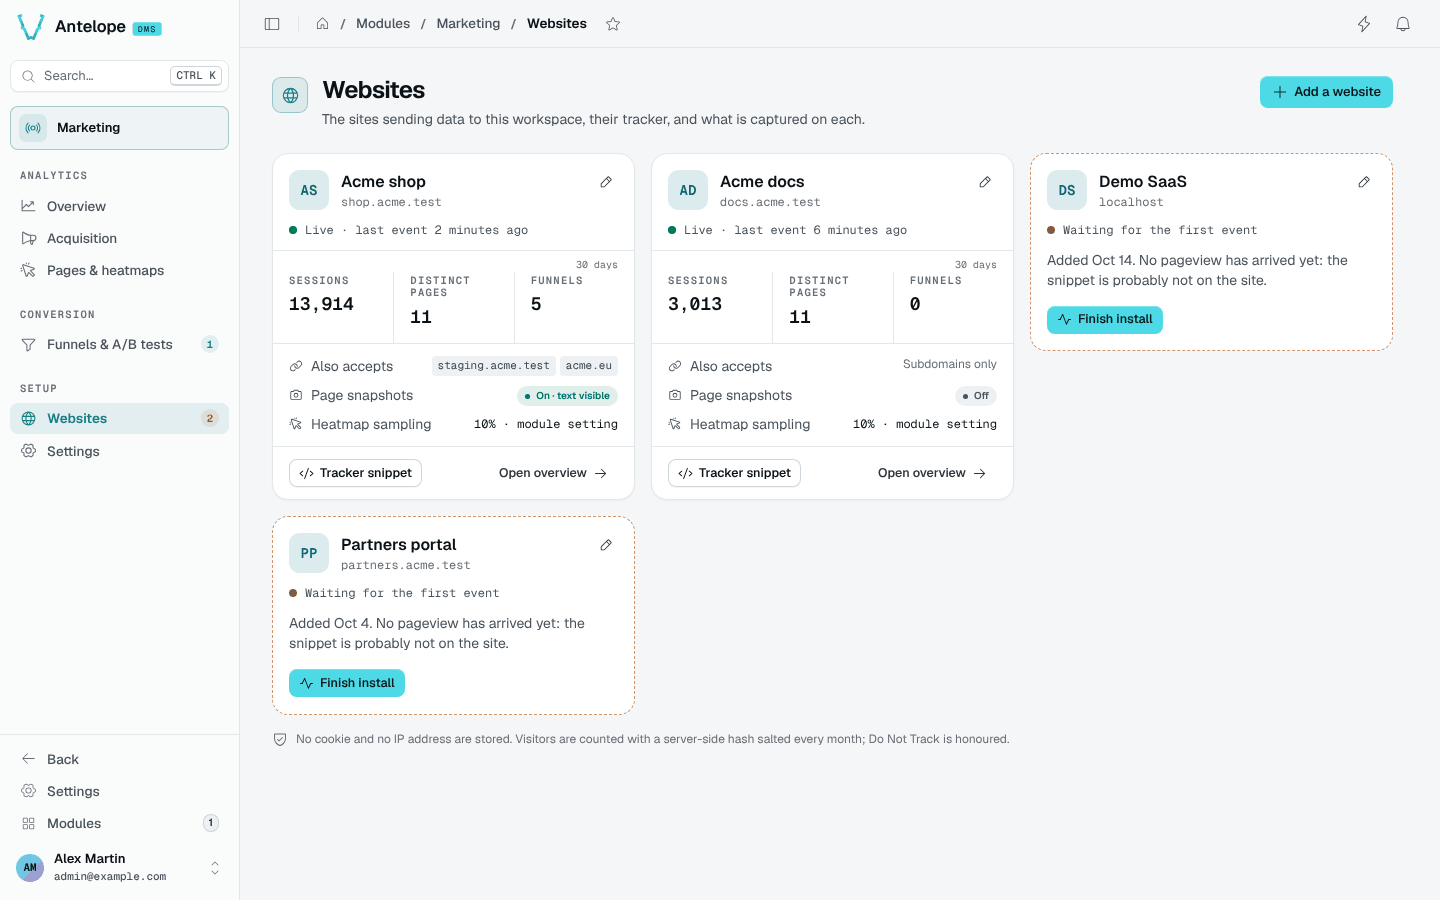
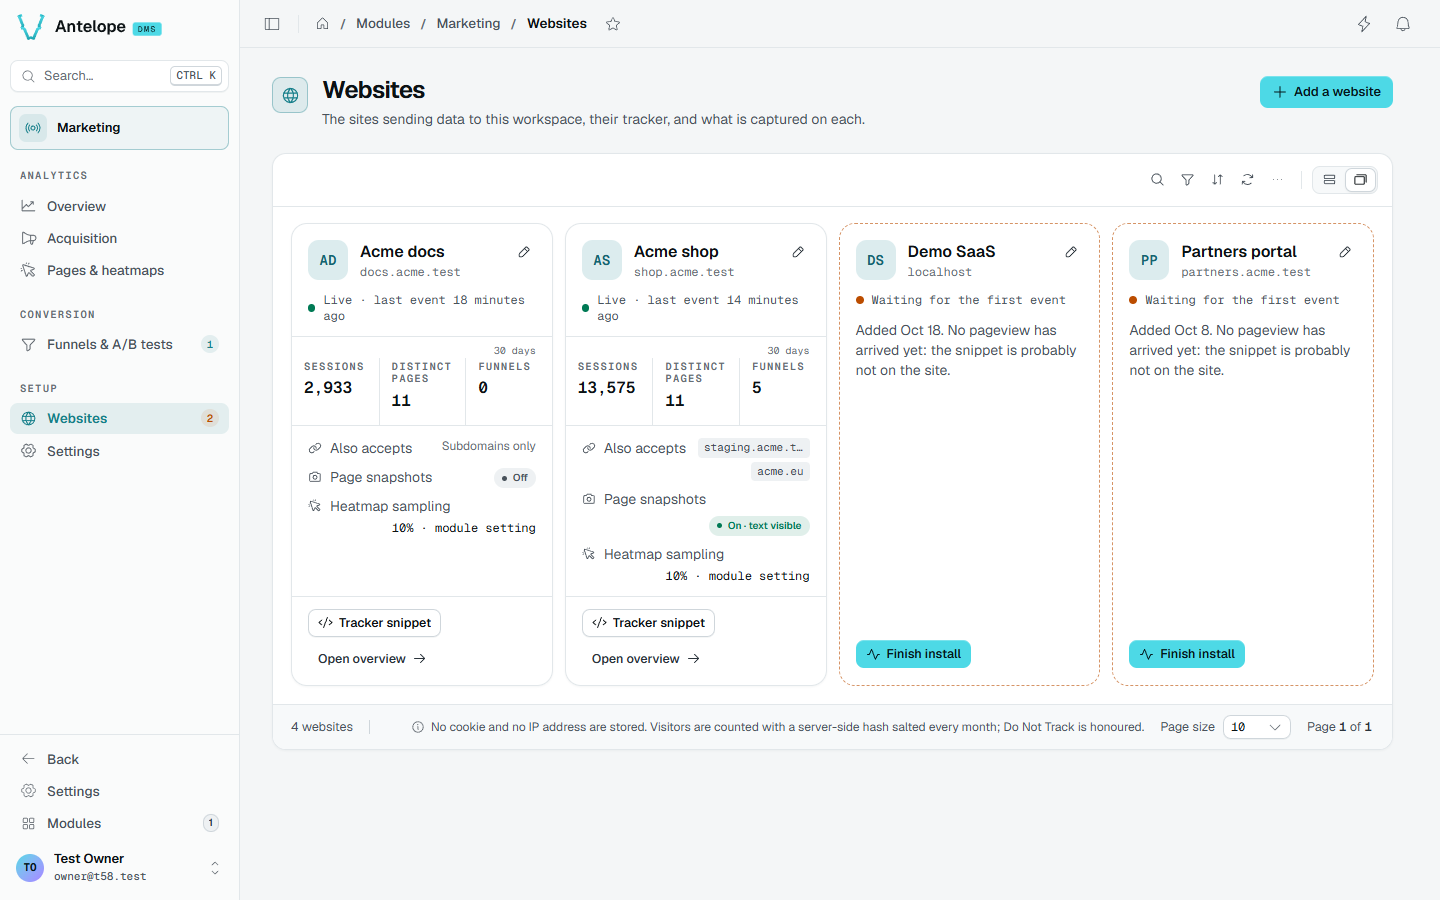
docs(websites): describe the table view and its modals

diff --git a/packages/dms-marketing/docs/7.architecture.md b/packages/dms-marketing/docs/7.architecture.md
@@ -293,7 +293,6 @@ Kind-specific `data` payloads:
 | `GET /api/marketing/snapshot.js?website=&path=&width=` | public | snapshot negotiation: the capture script when the backend wants a snapshot of that path at that viewport width, an empty script otherwise (see *Snapshot contract*) |
 | `POST /api/marketing/snapshot` | public | snapshot upload — one serialized page rendering, capped and rate-limited, accepted only with the token its negotiation handed out |
 | `GET/POST/PUT/DELETE /api/marketing/websites` | tenant member / owner | website CRUD; the list comes back most-recently-active first, so a dashboard landing on the first entry lands on one with data. `snapshotsEnabled` / `snapshotMaskText` are the page-snapshot opt-in and masking options; changing either discards the site's snapshots, and changing `snapshotsEnabled` marks it `snapshotsSetBy: "owner"`, which configuration never overrides. `DELETE /:id` purges the site's tracking data with it (see *Website lifecycle contract*) |
-| `GET /api/marketing/websites/summary` | tenant member | the Websites page cards: state, sessions / pages / funnels over 30 days, accepted hosts, snapshot and sampling state, recently refused hosts |
 | `GET /api/marketing/websites/:id/connection` | tenant member | the install guide's check: the site's state, its most recent visit (URL, browser, device) and its recently refused hosts |
 | `POST /api/marketing/websites/:id/allow-host` | tenant owner | adds a refused host to the site's `extraDomains` and forgets its refusals |
 | `POST /api/marketing/dashboard-tracking` | tenant member | with `dashboardTracking` on, the website the dashboard's own tag reports to, `{ websiteId }`: created for the caller's tenant on first call (id derived from the tenant, snapshots per `dashboardTracking.snapshots` until an owner changes them — `snapshotsSetBy` records whether `config` or the `owner` set them), the request's Origin (else Referer) host added to its `extraDomains` when it is new. 404 while the option is off; 400 without a usable host |
@@ -321,7 +320,7 @@ Kind-specific `data` payloads:
 | `POST /api/marketing/funnels/preview` | tenant member | scores unsaved steps and window over the last 30 days, for the builder |
 | `GET /api/marketing/funnels/:id/results` | tenant member | read-time funnel computation (each step with the events it `matches`, 0 for a step never sent), plus `previous`, the same computation over the comparison window (plain funnels and drafts, and only when raw events cover it — `coverage` says what they cover) — and, when the funnel carries an A/B split, the per-arm read through the same steps over the split's runs: exposed sessions, conversion, z-test verdicts with the lift interval (Bonferroni past two arms), SRM check, `decision` (days served, ready), and `verdict` — the one reading the report, its stop dialog and the list share: `kind` (winner, loser, flat, early, withheld) and the `leader` arm it names |
 | `/api/marketing/tables/funnels/*` | platform owner | funnels DataController (TableView CRUD, tenant-instance-scoped via `@TenantScopedModel`; enforces the split's `draft → running ⇄ stopped` lifecycle, stamps the runs it produces, and freezes key/variations outside draft) |
-| `/api/marketing/tables/websites/*` | platform owner | read-only websites DataController (relation picker; global table, column-scoped) |
+| `/api/marketing/tables/websites/*` | platform owner | read-only websites DataController (the Websites page's table and the relation pickers; global table, column-scoped). Its `list` and `get` answer each row with its card: state, sessions / pages / funnels over 30 days, accepted hosts, snapshot and sampling state, recently refused hosts. The `/api/marketing/websites` writes publish on `marketing.websites`, the table's `realtimeTopic` |
 | `GET/PUT /api/marketing/settings` | platform owner | settings form endpoints; `PUT` merges a partial body (a key left out keeps its value, `null` or the default itself clears it back to the config default), refuses (400, issue under the field) a snapshot retention longer than the raw-event retention or a statistics retention shorter than it, and answers 409 to the first save of a retention cut that deletes data (saving it again confirms) |
 | `GET/POST /api/marketing/settings/collection` | platform owner | the master switch, the websites and their 30-day sessions; `POST {enabled}` flips it |
 | `GET /api/marketing/settings/collection/banner` | platform owner | the Collection section for a stock `Banner`: state, coverage and the pause (confirmed) or resume action |
@@ -806,7 +805,11 @@ rest are module blocks, `CustomComponent("DmsMarketing<Name>")` built with
 first-run gate), `TopListTabs`,
 `ChannelsCard`, `PagesExplorer` (inventory and heatmap
 preview), `FunnelTemplates` (the funnels table's first-run state), `FunnelReport` (with `FunnelFigure` and
-`ExperimentReport`), `FunnelBuilder`, `WebsitesGrid` and `InstallGuide`.
+`ExperimentReport`), `FunnelBuilder` and `InstallGuide`. The Websites page is a stock `TableView`
+over the websites data controller whose `card.component` is
+`DmsMarketingWebsiteCard`; its default row action opens
+`DmsMarketingWebsiteSettings` in a modal (`?record=<id>`), and its header
+button `DmsMarketingWebsiteCreate`.
 The Collection section is a stock `Banner` the route words
 (`/settings/collection/banner`), with the pause behind a confirmation and
 the resume as its actions. The Settings forms share their field definitions with

diff --git a/packages/dms-marketing/docs/4.usage/5.websites.md b/packages/dms-marketing/docs/4.usage/5.websites.md
@@ -8,35 +8,44 @@ description: Register the sites to track, follow their state, and install the tr
 **Where:** `/modules/marketing/websites` and the install guide `/modules/marketing/install`, under **Setup**.
 
 Every tracked site is a *website* row, and its id is what the tracker embeds.
-Add it from the console: **Add a website** on the Websites page — or on the
-first-run screen every analytics page shows while the workspace has no
-website — opens the install guide (`/modules/marketing/install`). Its three
-steps create the website from a name and an apex domain, show the tag to
-embed with the id filled in, and check the connection (see
-[Verify](/docs/modules/marketing/installation#verify)).
+Add it from the console: **Add a website** in the Websites page header opens
+a modal asking for a name and an apex domain; once the site is created, the
+install guide (`/modules/marketing/install`) opens on it, at the tag to
+embed. The first-run screen every analytics page shows while the workspace
+has no website leads to the guide directly: its three steps create the
+website, show the tag to embed with the id filled in, and check the
+connection (see [Verify](/docs/modules/marketing/installation#verify)).
 
 ![Install guide: step 1 done, step 2 with the tracker snippet in HTML, Nuxt and Google Tag Manager tabs, step 3 listening for the first pageview](../images/install.png)
 
 The Websites page (`/modules/marketing/websites`) lists the sites
-afterwards, one card each: its state (live, imported history only, waiting for its first pageview,
+afterwards in a DMS table view, one card each: its state (live, imported history only, waiting for its first pageview,
 paused), its sessions, distinct pages and funnels over the last 30 days, the
-hosts it accepts, and its snapshot and sampling state (the snapshot pill
-opens the site's settings on that switch; `?edit=<id>&setting=snapshots`
-links there too). Any card names the
+hosts it accepts, and its snapshot and sampling state. The table's toolbar
+searches the sites by name or domain, filters them on **Tracking** and
+**Page snapshots**, sorts them, counts them and reads them again (refresh,
+and live when a site is added, changed or deleted elsewhere); its display
+switcher also offers a plain grid. Any card names the
 hosts refused for it, each with **Allow this host**; a paused site offers
 **Resume tracking**; a banner says when collection is paused for the whole
 module (Settings). A site still waiting leads back to its install guide; the
-sidebar badge on Websites counts those sites (paused ones excluded). A
-site's drawer holds two tabs: **General** (name, domain, extra hosts,
+sidebar badge on Websites counts those sites (paused ones excluded).
+
+A click on a card, or its pencil, opens the site's settings in a modal (the
+snapshot pill opens it scrolled to that switch). The URL names the open
+site, `?record=<id>`, so the modal can be linked to and reopens on reload;
+`&setting=snapshots` scrolls it to the snapshot switch (the Pages &
+heatmaps preview links there). An older `?edit=<id>` link lands on the same
+modal. The modal holds two tabs: **General** (name, domain, extra hosts,
 **Collect data** — off pauses the site: its beacons are refused, what was
 collected stays — and right below it **Page snapshots** and **Mask all
-text**, a change to which discards the site's snapshots, the drawer saying
+text**, a change to which discards the site's snapshots, the modal saying
 how many and Save asking for confirmation — even with none stored yet,
 except when only turning snapshots on; declining puts the switches back) and **Danger zone** (delete the website: it lists what goes, over every stored day —
 sessions, pageviews, funnels with their A/B tests, snapshots — and asks for
-the domain).
+the domain). Closing it with changes not saved asks first.
 
-![The settings drawer of a website, on its General tab](../images/website-drawer.png)
+![The settings modal of a website, on its General tab](../images/website-settings.png)
 
 ![Websites: one card per site with its live or waiting state, sessions, pages and funnels over 30 days, accepted hosts, snapshot and sampling state](../images/websites.png)
 
@@ -69,7 +78,7 @@ same keys plus `trackingEnabled` (false pauses the site).
   masked rendering of each tracked page as the heatmap's backdrop. This
   stores page content, unlike anything else in the module — read
   [Pages & heatmaps](/docs/modules/marketing/usage/pages-and-heatmaps#page-snapshots) before enabling it.
-  Also switchable from the **General** tab of the website's drawer (under
+  Also switchable from the **General** tab of the website's settings (under
   **Collect data**) and, as a shortcut, from the preview's **More** menu on
   Pages & heatmaps. `snapshotMaskText` masks
   every text node of the captures on top of the always-masked form values.

diff --git a/packages/dms-marketing/skills/dms-marketing/SKILL.md b/packages/dms-marketing/skills/dms-marketing/SKILL.md
@@ -25,6 +25,10 @@ https://dms.antelopejs.com/docs/modules/marketing (`architecture` holds the full
 - Behind a proxy set the DMS `auth.trustedProxies`; the old `trustedProxyHops` option is gone.
 - One website row per tracked site (Websites page or `POST /api/marketing/websites {name, domain, extraDomains?}`).
   Its `domain` gates ingestion: the beacon's Origin must be that apex, a subdomain or an extra host.
+- The Websites page is a DMS TableView (cards display, plain grid on offer) over
+  `/api/marketing/tables/websites`, whose list answers each row with its card; "Add a website" and a site's
+  settings open in modals. Link a site's settings with `/modules/marketing/websites?record=<id>`
+  (`&setting=snapshots` scrolls to the snapshot switch); the old `?edit=<id>` still redirects there.
 
 ## Visitor site
 
@@ -40,7 +44,7 @@ const arm = await window.dmsMarketing?.variation("hero-cta");      // null = ren
 - The dashboard origin forwards the scripts and beacons because the module declares them `publicEndpoints`
   (renderer 0.6 refuses other cross-origin writes); the backend origin works too.
 - Never `type="module"` (breaks `document.currentScript`). Always guard with `?.`.
-- Snapshots (heatmap backdrops) are opt-in per site (Websites page, General tab, next to Collect data); mask with
+- Snapshots (heatmap backdrops) are opt-in per site (Websites page, a site's settings modal, General tab, next to Collect data); mask with
   `data-dms-marketing-mask` / `data-dms-marketing-block`. Captures drop transient overlays on their own (top
   layer, fixed/floating role=dialog/menu/listbox/tooltip, fixed toasts and toast viewports); block anything else
   per element. Captures inline only the CSS rules matching the page

diff --git a/packages/dms-marketing/docs/3.configuration.md b/packages/dms-marketing/docs/3.configuration.md
@@ -109,6 +109,6 @@ other site.
 
 ## Runtime settings
 
-The [Settings](/docs/modules/marketing/usage/settings) page edits the collection switch, the three retentions and the heatmap sampling for every tenant and website. A field left empty follows the config default above. Per-site options (page snapshots, text masking, extra hosts, collect data) live in each website's drawer on the [Websites](/docs/modules/marketing/usage/websites) page.
+The [Settings](/docs/modules/marketing/usage/settings) page edits the collection switch, the three retentions and the heatmap sampling for every tenant and website. A field left empty follows the config default above. Per-site options (page snapshots, text masking, extra hosts, collect data) live in each website's settings on the [Websites](/docs/modules/marketing/usage/websites) page.
 
 ![The Settings page: collection status, retention and At a glance](./images/settings.png)

diff --git a/packages/dms-marketing/docs/4.usage/3.pages-and-heatmaps.md b/packages/dms-marketing/docs/4.usage/3.pages-and-heatmaps.md
@@ -265,7 +265,7 @@ images stay, so block the personal ones. Changing either option discards
 the site's existing snapshots; the next sampled visits recapture under the
 new rules. Wherever the options are offered (the **Page snapshots** and
 **Mask all text** checkboxes of this page's More menu, the Websites page's
-drawer), every change is asked first: with how many snapshots will go when
+settings), every change is asked first: with how many snapshots will go when
 the site has some — clicks and scroll depth stay — and as a change of
 setting when it has none yet. Declining saves nothing and leaves the
 checkbox as it was. Turning snapshots on for a site holding none is the one

diff --git a/packages/dms-marketing/docs/4.usage/6.settings.md b/packages/dms-marketing/docs/4.usage/6.settings.md
@@ -13,7 +13,7 @@ placeholder).
 The settings row is deployment-global (owner-only, like every module page):
 it drives collection and retention for **all** tenants and websites.
 Per-site capture options (page snapshots, text masking) live in each
-website's drawer on the Websites page.
+website's settings on the Websites page.
 
 ![Settings: the Collection section with its status and the Pause collection action, the Retention form and the start of At a glance](../images/settings.png)
 
